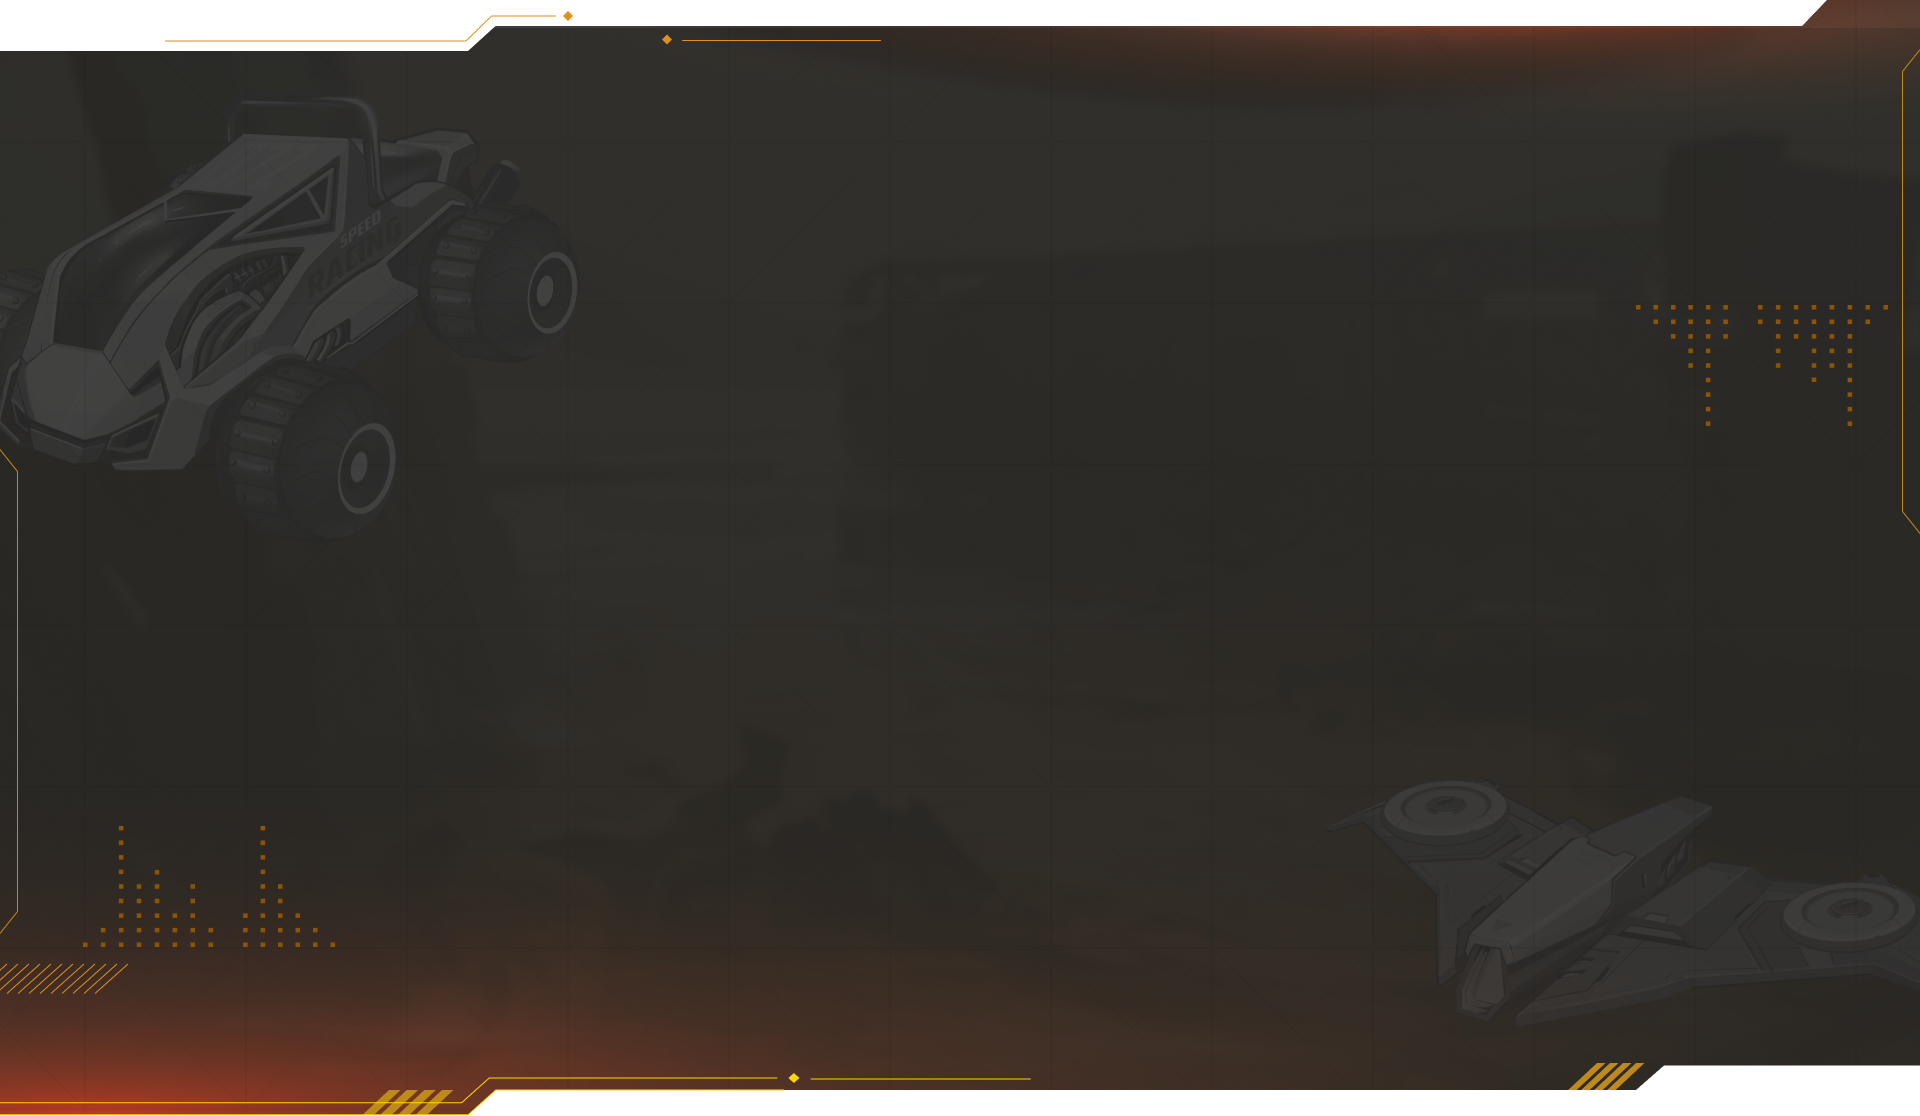
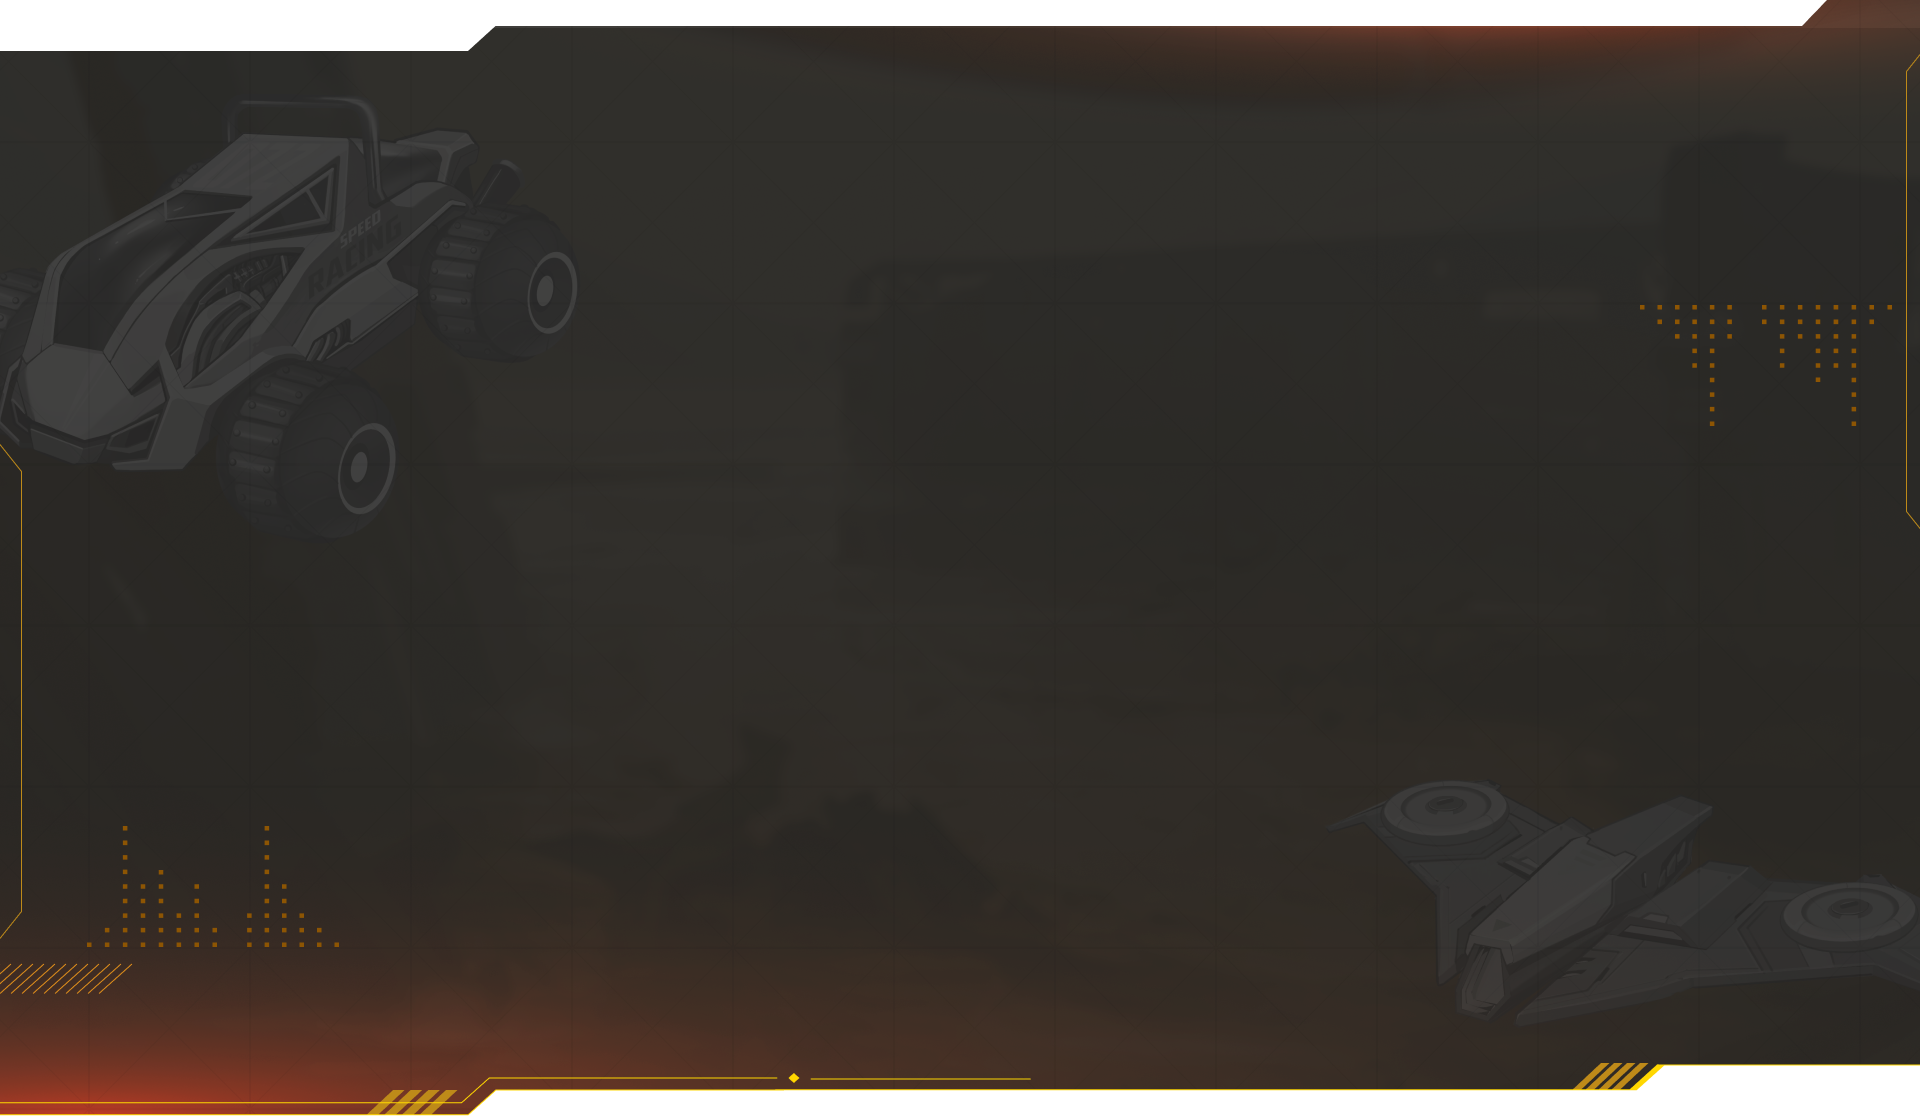
land section

diff --git a/src/sections/ChampionSection/components/ItemActive.tsx b/src/sections/ChampionSection/components/ItemActive.tsx
@@ -1,17 +1,26 @@
 import { Item } from 'models/item.model'
 import React, { FC } from 'react'
 import styled from 'styled-components/macro'
+import ItemThumbImage from './ItemThumbImage'
 
 type ItemImageProps = {
   item: Item
 }
 
 const ItemActive: FC<ItemImageProps> = ({ item }) => {
+  console.log(item)
+
   return (
     <Wrapper className="flex justify-content-between">
       <MainImage>
         <img src={item.fullSize || item.image} data-aos="fade-right" />
       </MainImage>
+      <MainItemInfo>
+        <MainItemTopInfo className="flex justify-content-between align-items-end">
+          <ItemThumbImage item={item} />
+          <ItemName>{item.name}</ItemName>
+        </MainItemTopInfo>
+      </MainItemInfo>
     </Wrapper>
   )
 }
@@ -20,9 +29,36 @@ export default ItemActive
 
 const Wrapper = styled.div`
   position: relative;
+  width: 100%;
+  ${({ theme }) => theme.mediaWidth.upToMedium`
+    flex-direction: column;
+  `};
 `
 
 const MainImage = styled.div`
   width: 100%;
-  max-width: 50%;
+  ${({ theme }) => theme.mediaMinWidth.minFromMedium`
+    width: 50%;
+  `};
+`
+
+const MainItemInfo = styled.div`
+  gap: 14px;
+  width: 100%;
+  ${({ theme }) => theme.mediaMinWidth.minFromMedium`
+    width: 50%;
+  `};
+`
+
+const MainItemTopInfo = styled.div``
+
+const ItemName = styled.h5`
+  width: calc((100% -14px) / 2);
+  font-family: 'Normandia';
+  font-weight: 400;
+  font-size: 90px;
+  line-height: 90px;
+  color: ${({ theme }) => theme.yellow2};
+  text-shadow: 5px 5px 5px rgba(0, 0, 0, 0.6);
+  margin-bottom: 0;
 `

diff --git a/src/assets/index.ts b/src/assets/index.ts
@@ -8,6 +8,7 @@ import weaponSectionBackground from 'assets/images/background/weapon.png'
 import weaponSliderBackground from 'assets/images/background/weapon-slider.png'
 import weaponNavBackground from 'assets/images/slider/gun-frame.png'
 import weaponActiveNavBackground from 'assets/images/slider/gun-active-frame.png'
+import landBackground from 'assets/images/background/land.png'
 import buildLandBackground from 'assets/images/background/build_land.png'
 import roadmapBackground from 'assets/images/background/roadmap.png'
 import teamsBackground from 'assets/images/background/team.png'
@@ -35,6 +36,7 @@ export {
   weaponSliderBackground,
   weaponNavBackground,
   weaponActiveNavBackground,
+  landBackground,
   buildLandBackground,
   roadmapBackground,
   teamsBackground,

diff --git a/src/sections/ChampionSection/components/ItemThumbImage.tsx b/src/sections/ChampionSection/components/ItemThumbImage.tsx
@@ -1,0 +1,24 @@
+import { Item } from 'models/item.model'
+import React, { FC, memo } from 'react'
+import styled from 'styled-components/macro'
+import champThumb from 'assets/images/slider/champ-thumb.png'
+
+type ThumbProps = {
+  item: Item
+}
+
+const ItemThumbImage: FC<ThumbProps> = () => {
+  return <Wrapper>111</Wrapper>
+}
+
+export default memo(ItemThumbImage)
+
+const Wrapper = styled.div`
+  width: calc((100% -14px) / 2);
+
+  background: url(${champThumb}) no-repeat center center;
+  -webkit-background-size: cover;
+  -moz-background-size: cover;
+  -o-background-size: cover;
+  background-size: cover;
+`

diff --git a/src/sections/BuildLand/styled.ts b/src/sections/BuildLand/styled.ts
@@ -1,14 +1,15 @@
-import { buildLandBackground } from 'assets'
+import { landBackground } from 'assets'
 import styled from 'styled-components/macro'
 
 export const Wrapper = styled.div`
   width: 100%;
   height: 1170px;
   position: relative;
-  background: url(${buildLandBackground}) no-repeat center center;
+  background: url(${landBackground}) no-repeat center center;
   -webkit-background-size: cover;
   -moz-background-size: cover;
   -o-background-size: cover;
   background-size: cover;
   margin-top: -52px;
+  z-index: 2;
 `

diff --git a/src/sections/Banner/styled.ts b/src/sections/Banner/styled.ts
@@ -69,10 +69,10 @@ export const DownloadButton = styled.a`
   text-transform: uppercase;
   color: ${({ theme }) => theme.black1};
   background: url(${btnDownload}) no-repeat center center;
-  -webkit-background-size: cover;
-  -moz-background-size: cover;
-  -o-background-size: cover;
-  background-size: cover;
+  -webkit-background-size: contain;
+  -moz-background-size: contain;
+  -o-background-size: contain;
+  background-size: contain;
   :hover {
     color: ${({ theme }) => theme.black1};
   }

diff --git a/src/sections/ChampionSection/components/index.ts b/src/sections/ChampionSection/components/index.ts
@@ -1,5 +1,6 @@
 import RenderItems from './RenderItems'
 import ItemActive from './ItemActive'
 import ItemNavImage from './ItemNavImage'
+import ItemThumbImage from './ItemThumbImage'
 
-export { RenderItems, ItemActive, ItemNavImage }
+export { RenderItems, ItemActive, ItemNavImage, ItemThumbImage }
